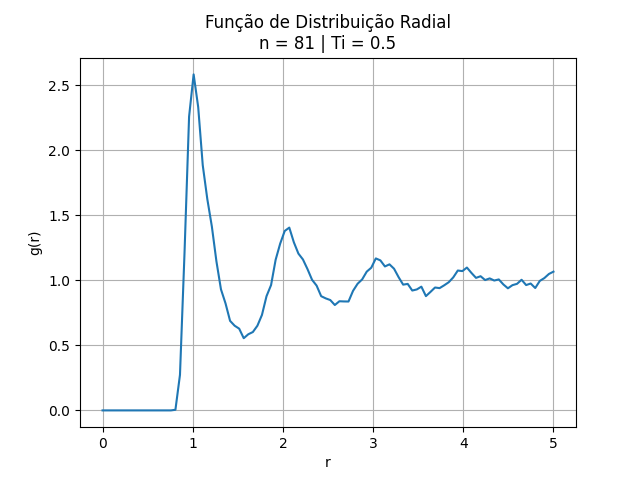
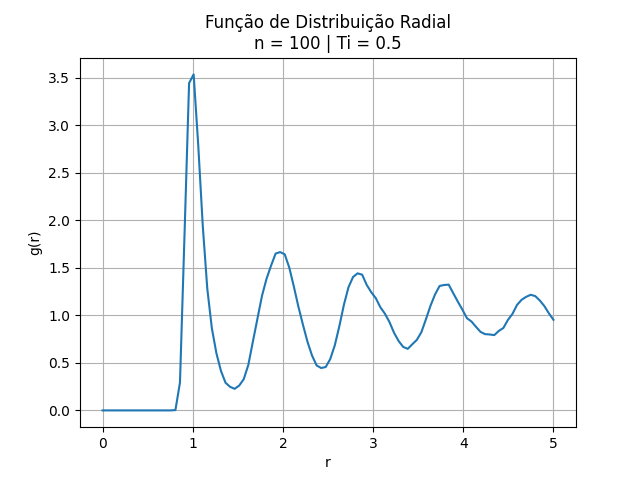
Atualização

diff --git a/MetCompC/aula9/lj_trunc.py b/MetCompC/aula9/lj_trunc.py
@@ -32,6 +32,7 @@ def immin(x1, y1, x2, y2, l):
 
 class Particle:
     todas = []
+    pressao = 0
 
     def __init__(self, r, p, v):
         self.raio = r
@@ -103,6 +104,17 @@ class Particle:
                     p[pi].pot += poti
                     p[pj].pot += potj
 
+                    # Cálculo da pressão
+                    Particle.pressao += np.hypot(fxi, fyi) * np.hypot(dx, dy)
+
+    @classmethod
+    def calcpressao(cls, T, num, l):
+        m = 1
+        kb = 1
+        v = l**2
+        rho = (m * len(Particle.todas))/v
+        return rho * kb * T + ((Particle.pressao/num)/v)
+
     @classmethod
     def energias(cls, cond='Particula'):
         k = 0
@@ -125,17 +137,6 @@ class Particle:
     def rdf(cls, l, switch=0, ngr=0, g=(), size=2):
         p = Particle.todas
         n = len(p)
-        '''
-        Se for só uma usa esse aqui
-        # Seleção da partícula central
-        pc = p[0]
-        for i in range(n):
-            delr = np.hypot(p[i].pos[0] - l / 2, p[i].pos[1] - l / 2)
-
-            delrc = np.hypot(pc.pos[0] - l / 2, pc.pos[1] - l / 2)
-            if delr < delrc:
-                pc = p[i]
-        '''
         bins = l * size
         tambin = l/(2 * bins)
         rho = n / (l ** 2)
@@ -159,11 +160,7 @@ class Particle:
                 vb = (((i + 1)**2) - (i**2)) * (tambin**2)
                 npar = np.pi * vb * rho
                 g[i] /= ngr * n * npar
-
             return g
-
-
-
 
     @classmethod
     def plot(cls, ax):
@@ -196,6 +193,7 @@ def dinmol(l, n, r, di, eps, sig, T, tf, dt, ci='Random'):
     dt: delta tempo
     ci: condições de inicialização ; Triangulo, Quadrado, Random
     '''
+    start = time.time()
     # Largura da distribuição de velocidades
     kb = 1
     m = 1
@@ -248,7 +246,7 @@ def dinmol(l, n, r, di, eps, sig, T, tf, dt, ci='Random'):
 
     # Resto dos passos
     c = 0
-    k, u, tot, time = [], [], [], []
+    k, u, tot, tempo = [], [], [], []
     ngr, g = Particle.rdf(l, switch=0, size=10)
     for t in np.arange(0, tf, dt):
         c += 1
@@ -269,17 +267,17 @@ def dinmol(l, n, r, di, eps, sig, T, tf, dt, ci='Random'):
             k.append(cin)
             u.append(pot)
             tot.append(to)
-            time.append(t)
+            tempo.append(t)
             # Cinetica
-            ax2.plot(time, k,  marker='+', color='r', linewidth=.1)
+            ax2.plot(tempo, k,  marker='+', color='r', linewidth=.1)
             ax2.set_title('Energias')
             ax2.set(xlabel='t', ylabel='E/n')
 
             # Potencial
-            ax2.plot(time, u,  marker='^', color='b', linewidth=.1)
+            ax2.plot(tempo, u,  marker='^', color='b', linewidth=.1)
 
             # Total
-            ax2.plot(time, tot, marker='*', color='k', linewidth=.1)
+            ax2.plot(tempo, tot, marker='*', color='k', linewidth=.1)
 
         fig.suptitle(f'Potencial Lennard-Jones\nPassos = {c:>5} | dt = {dt} | t = {t:>3.1f}')
         if t == tf-dt:
@@ -297,21 +295,27 @@ def dinmol(l, n, r, di, eps, sig, T, tf, dt, ci='Random'):
     plt.grid()
     plt.savefig('RDF.png')
 
+    pressao = Particle.calcpressao(T, c, l)
+    end = time.time()
+    exec = end - start
+    ark = open('MD_info.txt', 'w', encoding='utf-8')
+    ark.write(f'-*- Dinâmica Molecular -*-\n'
+              f'l = {l}\nn = {n}\nr = {r}\ndi = {di}\neps = {eps}\nsig = {sig}\nT = {T}\ntf = {tf}\ndt = {dt}\n'f'ci = {ci}\n'
+              f'Pressão = {pressao:.2f}\nDensidade = {len(particulas)/(l**2):.2f}m^-2\nTempo de execução = {exec:.2f}s')
+    ark.close()
+
 
 l = 10
-n = 9
+n = 10
 r = .3
 di = .4
 eps = 1
 sig = 1
 T = .5
-tf = 5
+tf = 10
 dt = .005
 ci = 'Triangulo'
-start = time.time()
 dinmol(l, n, r, di, eps, sig, T, tf, dt, ci)
-end = time.time()
-print(f'Tempo de execução: {end - start}s')
 
 '''
 Essa energia total tá certa?
